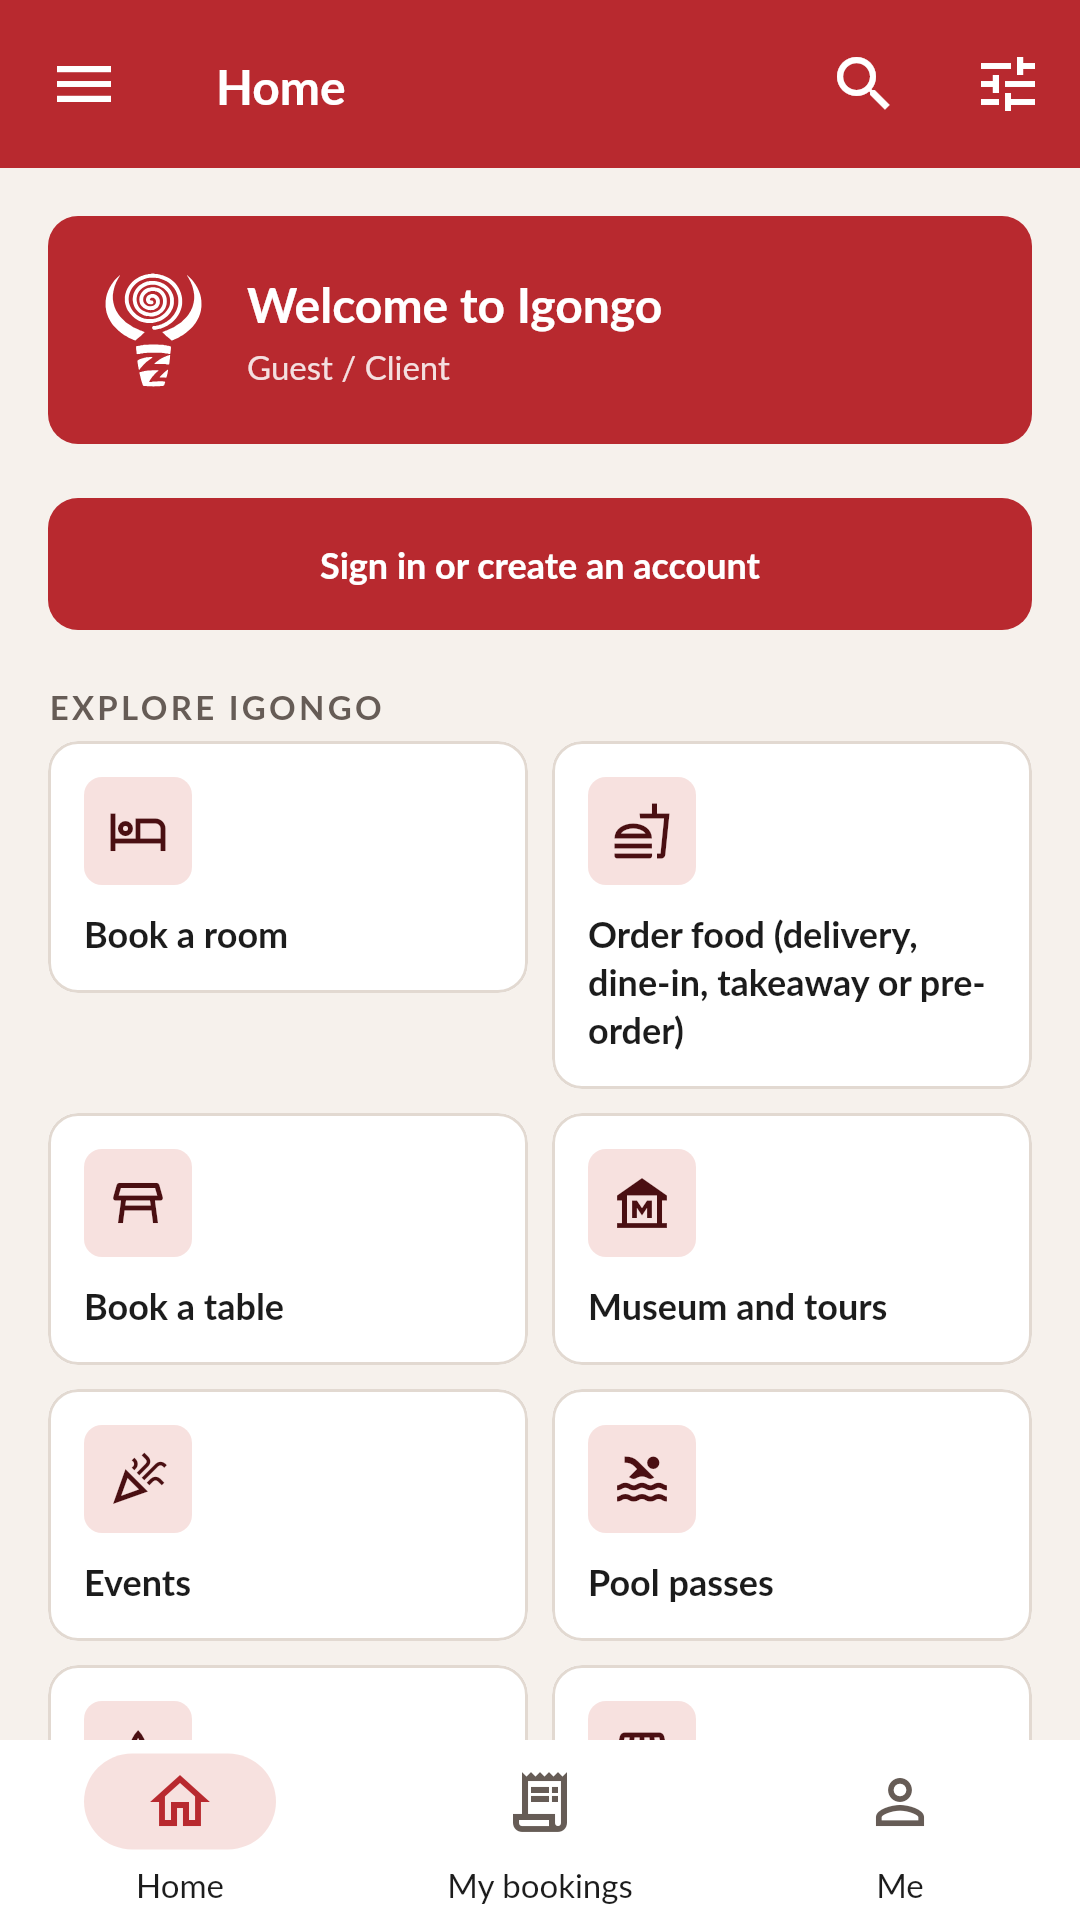
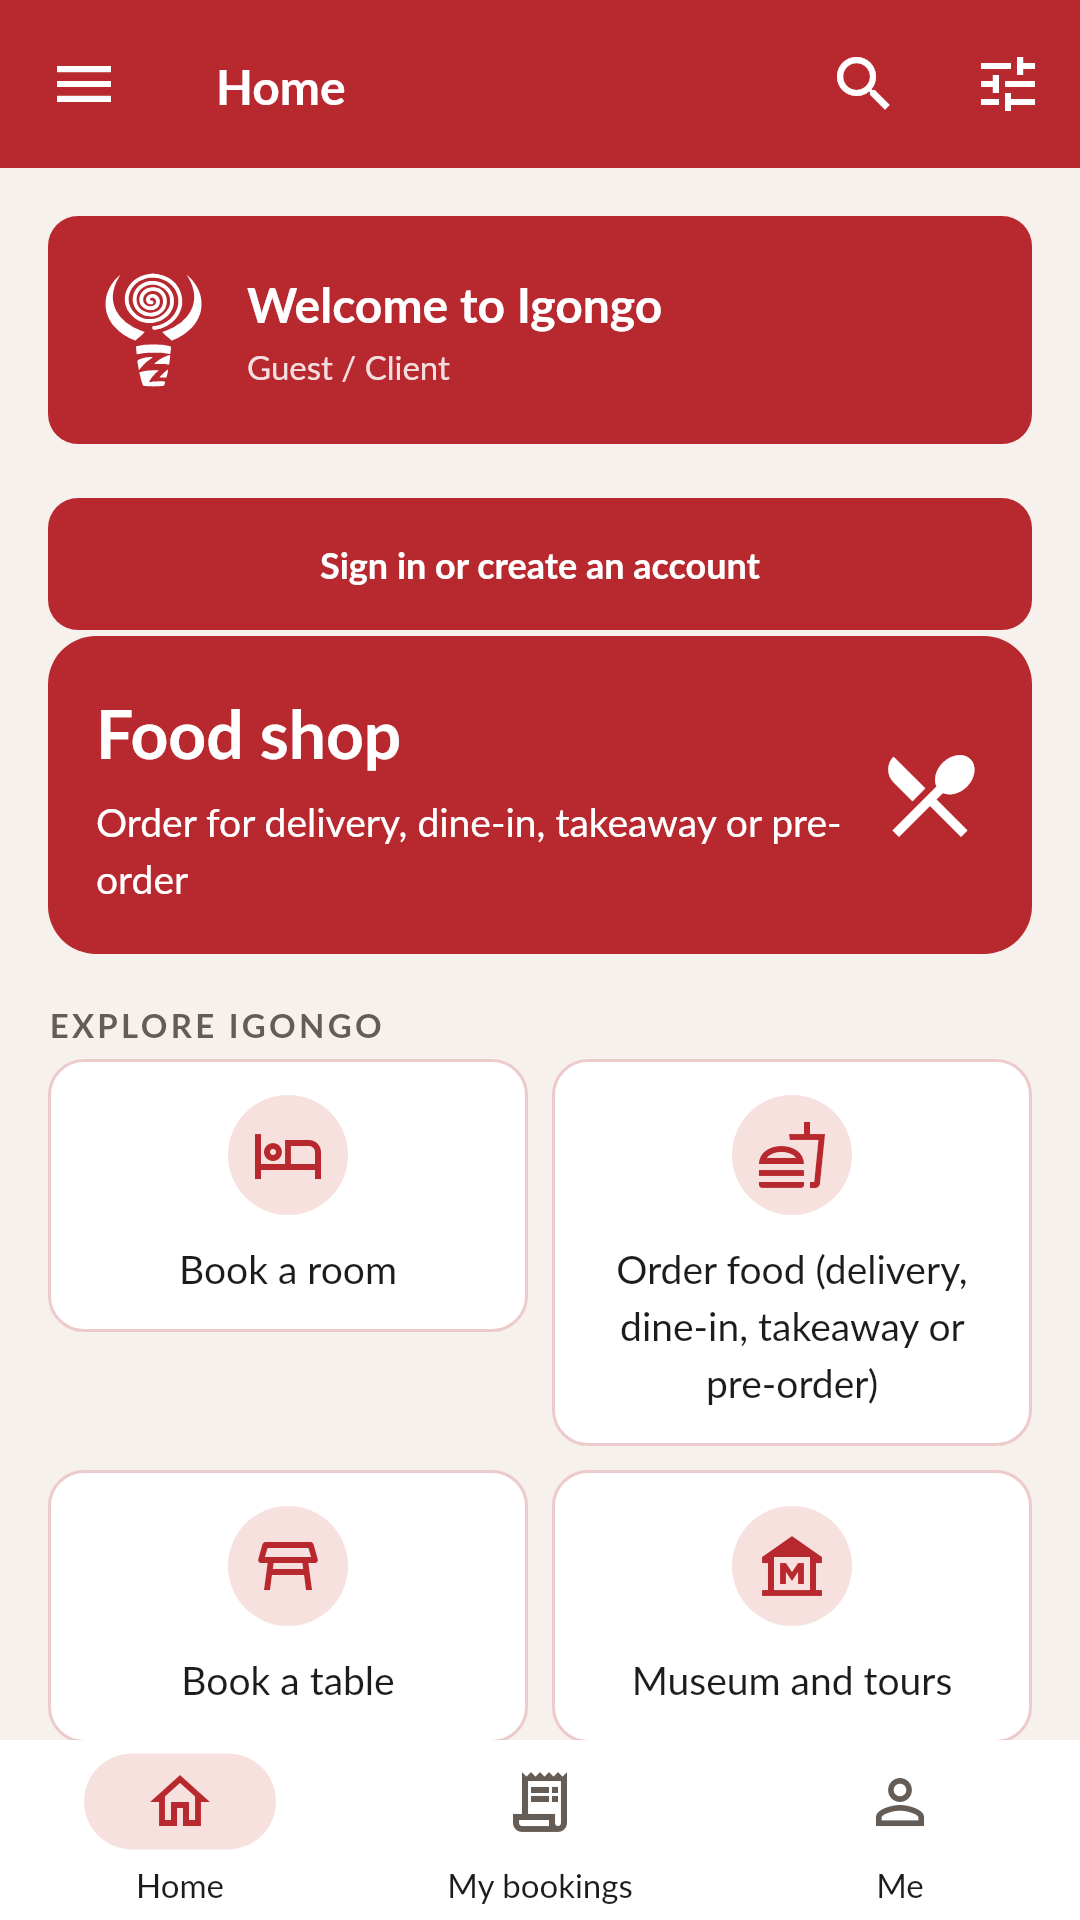
Guest home: area cards and food shop search (#31)
* Access and security: staff-only web, 2-step for super admin, staff match, lockout, alerts

Claude-Session: https://claude.ai/code/session_016ozUvfs5PkKMBpGpTcDesf

* Real sign-in and guest app on the phone; clean staff web sign-in

Phone app: real start-up check, real email sign-in and guest sign-up,
guests land on the guest home, staff see only their role, no role switch,
no prototype buttons, no sample records for real accounts (honest "not in
the app yet" instead), real Me screen with sign out and delete my account,
visitors asked to sign in before booking or ordering. docs/APP-WIRING.md
lists what is live and what is not.

Web: staff-only sign-in with Google and Apple icons, 2-step check,
forgot and reset password, sign-in methods, security settings, sign-in
log, staff match, one sidebar collapse button, Preview for the super
admin only, idle sign-out.

Claude-Session: https://claude.ai/code/session_016ozUvfs5PkKMBpGpTcDesf

* Phone app: live data for visitors, staff desks and boards, more screens

- Visitors browse live rooms, menus and offerings; sample screens only in
  the super admin's design preview. Personal screens ask to sign in.
- Shared bookings desk (approve, check in by code) for front desk,
  arrivals, in-house, museum, events, venues, pool, spa and shop.
- Orders board, kitchen display, expo screen and dispatch board.
- Staff detail screens lead to their live self-service screens.
- Forgot password, signed-in devices, settings in the app.
[…]

diff --git a/apps/igongo/lib/modules/m62_food_ordering/presentation/order_food_screen.dart b/apps/igongo/lib/modules/m62_food_ordering/presentation/order_food_screen.dart
@@ -48,12 +48,22 @@ class OrderFoodScreen extends ConsumerWidget {
       final count = cart.lines.fold(0, (n, l) => n + l.quantity);
       // Guests' average stars per dish (none until the first ratings come in).
       final stars = ref.watch(starsProvider).valueOrNull ?? const {};
+      // Step 1b: the search text narrows the dishes by name (not case sensitive).
+      final query = ref.watch(menuSearchProvider).trim().toLowerCase();
       return Column(
         children: [
           Expanded(
             child: ScreenListView(
               children: [
                 PurposeText(screen.spec.purpose),
+                // Step 2: the search box, above the outlets and dishes.
+                Padding(
+                  padding: const EdgeInsets.symmetric(horizontal: IgongoSpace.lg),
+                  child: TextField(
+                    decoration: const InputDecoration(hintText: 'Search menu', prefixIcon: Icon(Icons.search)),
+                    onChanged: (text) => ref.read(menuSearchProvider.notifier).set(text),
+                  ),
+                ),
                 Padding(
                   padding: const EdgeInsets.symmetric(horizontal: IgongoSpace.lg),
                   child: Wrap(
@@ -71,25 +81,40 @@ class OrderFoodScreen extends ConsumerWidget {
                 ...menu.when(
                   loading: () => [const LinearProgressIndicator()],
                   error: (e, _) => [Padding(padding: const EdgeInsets.all(IgongoSpace.lg), child: Text('$e'))],
-                  data: (items) => [
-                    if (items.isEmpty)
-                      const Padding(padding: EdgeInsets.all(IgongoSpace.lg), child: Text('Nothing on this menu yet.')),
-                    for (final section in {for (final i in items) i.section}) ...[
-                      SectionHeader(section),
-                      for (final i in items.where((i) => i.section == section))
-                        IgongoListRow(
-                          title: i.name,
-                          subtitle: [ugx(i.price), ?stars[i.id]?.words].join(' · '),
-                          status: i.available ? null : 'Out today',
-                          onTap: i.available
-                              ? () {
-                                  ref.read(cartProvider.notifier).useOutlet(outlet);
-                                  _open(context, ItemSheet(item: i));
-                                }
-                              : null,
+                  data: (all) {
+                    // Step 3: only the dishes whose name matches the search.
+                    final items = [
+                      for (final i in all)
+                        if (query.isEmpty || i.name.toLowerCase().contains(query)) i,
+                    ];
+                    return [
+                      if (all.isEmpty)
+                        const Padding(
+                          padding: EdgeInsets.all(IgongoSpace.lg),
+                          child: Text('Nothing on this menu yet.'),
                         ),
-                    ],
-                  ],
+                      if (all.isNotEmpty && items.isEmpty)
+                        const Padding(
+                          padding: EdgeInsets.all(IgongoSpace.lg),
+                          child: Text('No dish matches your search.'),
+                        ),
+                      for (final section in {for (final i in items) i.section}) ...[
+                        SectionHeader(section),
+                        for (final i in items.where((i) => i.section == section))
+                          IgongoListRow(
+                            title: i.name,
+                            subtitle: [ugx(i.price), ?stars[i.id]?.words].join(' · '),
+                            status: i.available ? null : 'Out today',
+                            onTap: i.available
+                                ? () {
+                                    ref.read(cartProvider.notifier).useOutlet(outlet);
+                                    _open(context, ItemSheet(item: i));
+                                  }
+                                : null,
+                          ),
+                      ],
+                    ];
+                  },
                 ),
               ],
             ),

diff --git a/apps/igongo/lib/modules/m00_app_shell/presentation/role_home/food_shop_card.dart b/apps/igongo/lib/modules/m00_app_shell/presentation/role_home/food_shop_card.dart
@@ -1,0 +1,58 @@
+// The food shop entry on the guest home: a large card that opens the food
+// home (menus, outlets and ordering, S62-01). Shown first, above the text tiles.
+
+import 'package:material_ui/material_ui.dart';
+import 'package:igongo_tokens/igongo_tokens.dart';
+
+/// A large, tappable card that opens the food shop.
+class FoodShopCard extends StatelessWidget {
+  /// Creates the food shop card; [onTap] opens the food home.
+  const FoodShopCard({super.key, required this.onTap});
+
+  /// Called when the card is tapped.
+  final VoidCallback onTap;
+
+  @override
+  Widget build(BuildContext context) {
+    // Step 1: the theme's colours, so light and dark both read well.
+    final scheme = Theme.of(context).colorScheme;
+    return Semantics(
+      button: true,
+      label: 'Food shop: order food for delivery, dine-in, takeaway or pre-order',
+      child: Material(
+        color: scheme.primary,
+        borderRadius: BorderRadius.circular(IgongoSpace.lg),
+        child: InkWell(
+          // Step 2: the whole card opens the food home.
+          borderRadius: BorderRadius.circular(IgongoSpace.lg),
+          onTap: onTap,
+          child: Padding(
+            padding: const EdgeInsets.all(IgongoSpace.lg),
+            child: Row(
+              children: [
+                // Step 3: the title and what it offers, then the icon.
+                Expanded(
+                  child: Column(
+                    crossAxisAlignment: CrossAxisAlignment.start,
+                    children: [
+                      Text(
+                        'Food shop',
+                        style: TextStyle(color: scheme.onPrimary, fontSize: 22, fontWeight: FontWeight.bold),
+                      ),
+                      const SizedBox(height: IgongoSpace.xs),
+                      Text(
+                        'Order for delivery, dine-in, takeaway or pre-order',
+                        style: TextStyle(color: scheme.onPrimary),
+                      ),
+                    ],
+                  ),
+                ),
+                Icon(Icons.restaurant_menu, color: scheme.onPrimary, size: 36),
+              ],
+            ),
+          ),
+        ),
+      ),
+    );
+  }
+}

diff --git a/apps/igongo/lib/modules/m00_app_shell/presentation/role_home/area_card.dart b/apps/igongo/lib/modules/m00_app_shell/presentation/role_home/area_card.dart
@@ -1,0 +1,63 @@
+// A guest's area card on the home: a large tappable card with the area's
+// icon and name, in the theme's colours. Photos are added once the hotel
+// sends its own pictures; until then no stock photo is shown.
+
+import 'package:igongo_tokens/igongo_tokens.dart';
+import 'package:material_ui/material_ui.dart';
+
+/// One area of the hotel (rooms, spa, pool...), tapped to open it.
+class AreaCard extends StatelessWidget {
+  /// Creates the card.
+  const AreaCard({super.key, required this.label, required this.icon, required this.onTap});
+
+  /// The area's name, such as Spa.
+  final String label;
+
+  /// The area's icon.
+  final IconData icon;
+
+  /// Called when the card is tapped.
+  final VoidCallback onTap;
+
+  @override
+  Widget build(BuildContext context) {
+    // Step 1: the theme's colours, so light and dark both read well.
+    final scheme = Theme.of(context).colorScheme;
+    return Semantics(
+      button: true,
+      label: label,
+      child: Material(
+        color: scheme.surface,
+        shape: RoundedRectangleBorder(
+          borderRadius: BorderRadius.circular(IgongoSpace.md),
+          side: BorderSide(color: scheme.primary.withValues(alpha: 0.25)),
+        ),
+        child: InkWell(
+          // Step 2: the whole card opens the area.
+          borderRadius: BorderRadius.circular(IgongoSpace.md),
+          onTap: onTap,
+          child: Padding(
+            padding: const EdgeInsets.all(IgongoSpace.md),
+            child: Column(
+              mainAxisAlignment: MainAxisAlignment.center,
+              children: [
+                // Step 3: the icon in a red disc, then the name.
+                CircleAvatar(
+                  backgroundColor: scheme.primaryContainer,
+                  foregroundColor: scheme.primary,
+                  child: Icon(icon),
+                ),
+                const SizedBox(height: IgongoSpace.sm),
+                Text(
+                  label,
+                  textAlign: TextAlign.center,
+                  style: TextStyle(color: scheme.onSurface),
+                ),
+              ],
+            ),
+          ),
+        ),
+      ),
+    );
+  }
+}

diff --git a/apps/igongo/lib/modules/m00_app_shell/presentation/role_home/role_home_screen.dart b/apps/igongo/lib/modules/m00_app_shell/presentation/role_home/role_home_screen.dart
@@ -15,6 +15,8 @@ import '../../../../shared/ui/icons/module_icons.dart';
 import '../../../../shared/ui/list_row/igongo_list_row.dart';
 import '../../../../shared/ui/section/section_header.dart';
 import '../../../../shared/ui/tile/home_tile.dart';
+import 'area_card.dart';
+import 'food_shop_card.dart';
 import 'role_header.dart';
 import 'role_shortcuts.dart';
 
@@ -48,6 +50,12 @@ class RoleHomeScreen extends ConsumerWidget {
               onPressed: () => screen.open('S00-05'),
             ),
           ),
+        // Step 1c: guests get the food shop as a large card first; it opens the food home.
+        if (role.isClient)
+          Padding(
+            padding: const EdgeInsets.symmetric(horizontal: IgongoSpace.lg),
+            child: FoodShopCard(onTap: () => screen.open('S62-01')),
+          ),
         // Step 2: the role's tiles (no made-up counts: each screen shows its own live numbers).
         SectionHeader(role.isClient ? 'Explore Igongo' : 'Today'),
         Padding(
@@ -55,11 +63,19 @@ class RoleHomeScreen extends ConsumerWidget {
           child: TileGrid(
             children: [
               for (final tile in role.tiles)
-                HomeTile(
-                  label: tile.label,
-                  icon: ModuleIcons.of(tile.screenId.substring(1, 3)),
-                  onTap: () => screen.open(tile.screenId),
-                ),
+                // Step 2a: guests see area cards; staff keep the plain tiles.
+                if (role.isClient)
+                  AreaCard(
+                    label: tile.label,
+                    icon: ModuleIcons.of(tile.screenId.substring(1, 3)),
+                    onTap: () => screen.open(tile.screenId),
+                  )
+                else
+                  HomeTile(
+                    label: tile.label,
+                    icon: ModuleIcons.of(tile.screenId.substring(1, 3)),
+                    onTap: () => screen.open(tile.screenId),
+                  ),
             ],
           ),
         ),

diff --git a/apps/igongo/test/support/open_app.dart b/apps/igongo/test/support/open_app.dart
@@ -3,6 +3,7 @@
 
 import 'package:flutter_test/flutter_test.dart';
 import 'package:igongo/app/igongo_app.dart';
+import 'package:flutter_riverpod/flutter_riverpod.dart';
 import 'package:igongo/shared/preferences/preferences.dart';
 import 'package:igongo/shared/states/view_state.dart';
 import 'package:material_ui/material_ui.dart';
@@ -17,6 +18,7 @@ void usePhoneWindow(WidgetTester tester, {double width = 390, double height = 84
 /// Opens the app at [location] and lets it draw its first frames. [role] picks
 /// the role whose home and menu show (the super admin when left out). [preview]
 /// is the super admin's design preview; off, the app draws as for a real person.
+/// [overrides] swap providers, such as the signed-in session.
 Future<void> openApp(
   WidgetTester tester,
   String location, {
@@ -25,6 +27,7 @@ Future<void> openApp(
   ViewState state = ViewState.normal,
   String? role,
   bool preview = true,
+  List<Override> overrides = const [],
 }) async {
   // Step 1: the preferences for this run.
   final prefs = AppPreferences()
@@ -34,7 +37,9 @@ Future<void> openApp(
     ..state = state;
   if (role != null) prefs.roleKey = role;
   // Step 2: a fresh app each time, so nothing carries over between screens.
-  await tester.pumpWidget(IgongoApp(key: UniqueKey(), initialLocation: location, preferences: prefs));
+  await tester.pumpWidget(
+    IgongoApp(key: UniqueKey(), initialLocation: location, preferences: prefs, overrides: overrides),
+  );
   // Step 3: a few frames for the theme; animations are not waited for (they loop).
   await tester.pump(const Duration(milliseconds: 50));
   // Step 4: load every picture on screen (logos, the staff card) for real, so a

diff --git a/apps/igongo/test/app/guest_landing_test.dart b/apps/igongo/test/app/guest_landing_test.dart
@@ -1,0 +1,44 @@
+// A signed-in guest on the phone lands on the guest home. The staff menu (the
+// role drawer) must not exist for a guest, and the super admin's Preview
+// button must not show. The session is faked, so no API is called.
+
+import 'package:flutter_test/flutter_test.dart';
+import 'package:igongo/app/shell/role_drawer.dart';
+import 'package:igongo/shared/session/session.dart';
+import 'package:igongo/shared/session/session_controller.dart';
+
+import '../support/open_app.dart';
+
+/// A signed-in guest: a client account with only the guest role.
+class _GuestSessionController extends SessionController {
+  @override
+  Future<Session?> build() async => const Session(
+    token: 'test-token',
+    userId: 'acc_guest_test',
+    name: 'Grace Guest',
+    email: 'guest@example.com',
+    isStaff: false,
+    permissions: [],
+    roleKeys: ['guest'],
+  );
+}
+
+void main() {
+  testWidgets('a signed-in guest lands on the guest home with no staff menu', (tester) async {
+    usePhoneWindow(tester);
+    await openApp(
+      tester,
+      '/home',
+      preview: false,
+      overrides: [sessionProvider.overrideWith(_GuestSessionController.new)],
+    );
+    // Step 1: the guest home greets the guest by first name.
+    expect(find.text('Hello, Grace'), findsOneWidget);
+    // Step 2: no staff menu: the frame has no drawer for a guest.
+    expect(find.byType(RoleDrawer), findsNothing);
+    // Step 2b: the food shop is on the guest home as a card.
+    expect(find.text('Food shop'), findsOneWidget);
+    // Step 3: no super admin Preview button for a guest.
+    expect(find.byTooltip('Preview'), findsNothing);
+  });
+}

diff --git a/apps/igongo/lib/modules/m62_food_ordering/application/cart_controller.dart b/apps/igongo/lib/modules/m62_food_ordering/application/cart_controller.dart
@@ -33,3 +33,15 @@ class CartController extends Notifier<Cart> {
 
 /// The cart, kept while the app runs.
 final cartProvider = NotifierProvider<CartController, Cart>(CartController.new);
+
+/// What the guest typed in the food shop's search box (empty shows every dish).
+class MenuSearch extends Notifier<String> {
+  @override
+  String build() => '';
+
+  /// Sets the search text to [text].
+  void set(String text) => state = text;
+}
+
+/// The food shop's search text.
+final menuSearchProvider = NotifierProvider<MenuSearch, String>(MenuSearch.new);

diff --git a/docs/WAIT-LIST.md b/docs/WAIT-LIST.md
@@ -15,3 +15,25 @@ Items the user asked to keep, to build after the current work is confirmed worki
 
 ## 3. Presets and role preview
 - See [PLAN-presets-and-role-preview.md](PLAN-presets-and-role-preview.md).
+
+## 4. Super admin on the app only; staff roles on web and app
+- The super admin signs in on the phone app only. The web is for staff roles, which keep web and app access.
+- Move the super admin's web sign-in, screens and routes out of the web portal when this is built.
+- When removing anything (screen, route, role, test, doc), remove it completely: code, routes, tests, imports, docs and unused files. See [QUALITY-RULES.md](QUALITY-RULES.md), rule 11.
+
+## 5. Visual guest home
+- Each area on the guest home as a card with its own picture: rooms, food and shop, events, spa, pool, museum.
+- Hotel photo and the red and cream theme, with pictures from the brand package only.
+- The food shop card is in place already (it opens the food home); the picture cards follow.
+
+## 6. Guest app design sheets (from the user, 26 Nov)
+Design sheets: guest home, food shop (with search and an add-to-cart bar), cart and checkout (delivery, dine-in, takeaway, pre-order), order tracking with rider, room booking, my bookings (upcoming and past), me (account, points, receipts, sign out), dark variants, and a hotel brand screen.
+- Build in one screen at a time, with our theme tokens and our font sizes (not the sheets' sizes), in light and dark.
+- Real API data only. Screens without a live API (room booking, tracking, my bookings) wait until the API exists.
+- Extras not yet built: a payment screen (Mobile Money, card, pay on arrival, secure checkout) and an optional hotel brand splash screen.
+
+## 7. Order customisation and notes (client side)
+- Before a client places an order, they can customise each item: options such as extra or less on each dish.
+- A free-text note per item, for example "no tomatoes".
+- The customisation and notes are saved on the order, and show in the cart, the checkout and the kitchen view.
+- Not built yet: saved with the order and shown to the kitchen once the order flow is live.

diff --git a/docs/QUALITY-RULES.md b/docs/QUALITY-RULES.md
@@ -18,3 +18,4 @@ comment inside saying why nothing else is needed.
 8. **Least privilege by default.** Nobody is an admin by default. Every admin action is checked on the server.
 9. **Never change the live database destructively without a backup.** Do not wipe it, reset it or run a destructive migration without a backup and the user's approval.
 10. **Never say done without evidence.** Show the passing checks, and list what was tried but not finished.
+11. **When something is removed, uproot it completely.** Delete its code, routes, tests, imports, docs and unused files in the same change, so nothing is left to break later.
